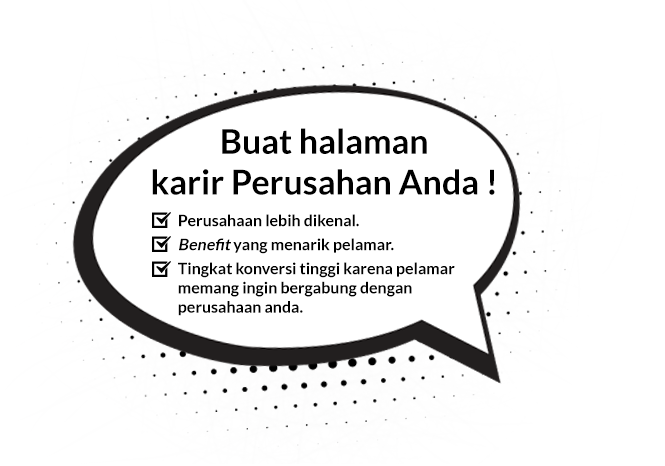
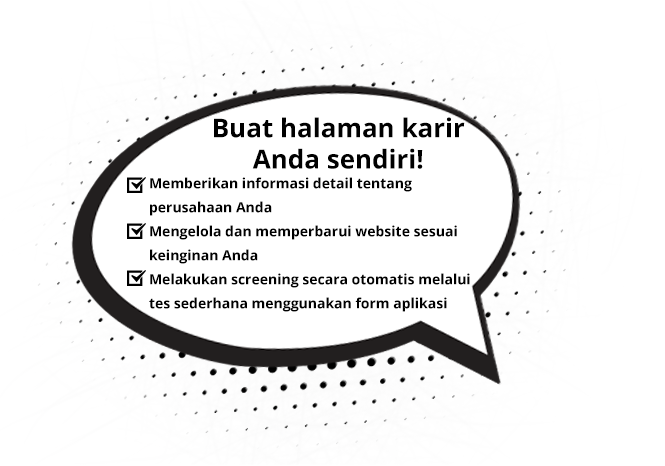
revision: career website service page

diff --git a/layanan/pembuatan-website-karir-perusahaan/css/style.css b/layanan/pembuatan-website-karir-perusahaan/css/style.css
@@ -114,7 +114,8 @@ header.head-banner{
 }
 .banner-subt{
 	font-size: 16px;
-	color: #555555;
+	color: #000;
+	text-shadow: 0px 0px 6px rgba(255,255,255,1);
 }
 .offering-part{
 	background: #000;
@@ -391,7 +392,7 @@ header.head-banner{
 }
 .testimonial-title {
 	background: #eab913;
-	min-height: 450px;
+	min-height: 520px;
 	position: relative;
 }
 .testimonial-title h3{
@@ -488,6 +489,102 @@ header.head-banner{
 .copyright-container {
 	padding:20px 0;
 		background: #eab913;
+}
+
+.slick-dots
+{
+    position: absolute;
+    bottom: 20px;
+
+    display: block;
+
+    width: 100%;
+    padding: 0;
+    margin: 0;
+
+    list-style: none;
+
+    text-align: center;
+}
+.slick-dots li
+{
+    position: relative;
+
+    display: inline-block;
+
+    width: 20px;
+    height: 20px;
+    margin: 0 5px;
+    padding: 0;
+
+    cursor: pointer;
+}
+.slick-dots li button
+{
+    font-size: 0;
+    line-height: 0;
+
+    display: block;
+
+    width: 20px;
+    height: 20px;
+    padding: 5px;
+
+    cursor: pointer;
+
+    color: transparent;
+    border: 0;
+    outline: none;
+    background: transparent;
+}
+.slick-dots li button:hover,
+.slick-dots li button:focus
+{
+    outline: none;
+}
+.slick-dots li button:hover:before,
+.slick-dots li button:focus:before
+{
+    opacity: 1;
+}
+.slick-dots li button:before
+{
+    font-family: 'slick';
+    font-size: 30px;
+    line-height: 20px;
+
+    position: absolute;
+    top: 0;
+    left: 0;
+
+    width: 20px;
+    height: 20px;
+
+    content: '•';
+    text-align: center;
+
+    opacity: .25;
+    color: black;
+
+    -webkit-font-smoothing: antialiased;
+    -moz-osx-font-smoothing: grayscale;
+}
+.slick-dots li.slick-active button:before
+{
+    opacity: .75;
+    color: black;
+}
+
+.btn-yellow {
+	background-color: #ffc914;
+	border: 2px solid #dead08;
+	color: #fff;
+	text-shadow: 1px 1px 1px rgba(0,0,0,0.3);
+	font-size: 16px;
+}
+.btn-yellow:hover,
+.btn-yellow:focus {
+	color: #fff;
 }
 
 /* responive */

diff --git a/layanan/pembuatan-website-karir-perusahaan/index.php b/layanan/pembuatan-website-karir-perusahaan/index.php
@@ -67,13 +67,17 @@ ga('send', 'pageview');
 				<div class="container">
 					<div class="banner-text">
 						<h1>
-							<span>Sulit Menemukan</span><br>
-							<span class="ytext">Karyawan Potensial</span> <br>
-							<span>untuk Perusahaan Anda?</span>
+							<span>Anda seorang HRD namun sulit untuk mendapatkan</span><br>
+							<span class="ytext">karyawan yang berkualitas</span> <br>
+							<span>untuk perusahaan Anda?</span>
+
 						</h1>
 						<div class="banner-subt">
-							Situs lowongan kerja kurang dapat diandalkan?<br>
-Komisi untuk agen penyalur tenaga kerja mahal?
+							Mari Buat Website Perekrutan Karyawan Anda Sendiri<br><br>
+							Sebuah Website perekrutan karyawan yang efektif dan mempunyai biaya yang rendah! <br><br>
+							Kami sadar dan memahami bahwa menggunakan situs lowongan kerja mempunyai biaya yang mahal serta sulit untuk melakukan pemilihan karyawan yang Anda inginkan.
+							<br><br>
+							Karena itu, mari kita sedikit lebih bijak dengan mengeluarkan biaya yang rendah namun mempunyai efektivitas yang cukup tinggi sehingga membuat waktu Anda sebagai HRD menjadi lebih efisien dengan membuat sebuah website perekrutan karyawan yang sesuai dengan keinginan Anda.
 						</div>
 					</div>
 				</div>
@@ -83,7 +87,7 @@ Komisi untuk agen penyalur tenaga kerja mahal?
 					<div class="container">
 						<div class="row">
 							<div class="col-sm-8">
-								<h2 style="padding-top: 15px;">KAMI HADIR UNTUK MEMBANTU ANDA!</h2>
+								<h2 style="padding-top: 15px;">Kami siap memberikan solusi sesuai keinginan Anda!</h2>
 							</div>
 							<div class="col-sm-4 text-right">
 								 <a href="https://www.logique.co.id/hubungi-kami.php" target="_blank"" target="_blank"><img class="logo-logique img-responsive" src="images/logo-y-logique.png" alt="" style="float: right; margin-top:10px;"></a>
@@ -96,20 +100,20 @@ Komisi untuk agen penyalur tenaga kerja mahal?
 					<div class="container">
 						<div class="problem-content row">
 							<div class="col-md-v col-sm-8">
-								<h3 style="text-align: left;">Mungkin Anda sebagai HRD sering menghadapi masalah ini <br>dalam proses perekrutan karyawan?</h3>
+								<h3 style="text-align: left;">Masalah-masalah yang seringkali dialami oleh HRD dalam melakukan proses perekrutan karyawan, yaitu:</h3>
 								 <div class="row">
 								 	
 								 	<div class="col-sm-4">
 								 		<img src="images/img-problem2.png" class="img-responsive" >
-								 		<div>Terus menggunakan layanan situs pencari kerja namun jumlah pelamar sedikit, bahkan cenderung menurun. </div>
+								 		<div>Menggunakan layanan situs pencari kerja namun hasilnya tidak menentu, terkadang jumlah pencari kerja banyak, tapi kualitasnya tidak bagus atau sebaliknya.</div>
 								 	</div>
 								 	<div class="col-sm-4">
 								 		<img src="images/img-problem3.png" class="img-responsive">
-								 		<div >Pakai jasa agen penyalur tenaga kerja namun kualitas tidak sebanding dengan harga.</div>
+								 		<div>Menggunakan jasa agen penyalur tenaga kerja, tapi harganya sangat mahal dan terkadang kualitas karyawan tidak bagus.</div>
 								 	</div>
 								 	<div class="col-sm-4">
 								 		<center><img src="images/img-problem1.png" class="img-responsive"  ></center>
-								 		<div>Cari kandidat di jaringan sosial namun mereka sudah menolak Anda dari awal.</div>
+								 		<div>Tidak mempunyai media untuk memberikan informasi kepada para pelamar kerja tentang informasi rekrutmen sehingga antara efektivitas waktu dan biaya tidak seimbang.</div>
 								 	</div>
 								 </div>
 							 
@@ -122,19 +126,21 @@ Komisi untuk agen penyalur tenaga kerja mahal?
 					<div class="arrow-up"></div>
 					<div class="container">
 						
-					<h3><span class="custom-text">Banyak perusahaan yang menghadapi kendala-kendala ini</span>
-					Logique memberikan solusi pembuatan website karir perusahaan yang mampu:
+					<h3><span class="custom-text">Banyak Perusahaan dan HRD yang Menderita dengan Kendala-kendala seperti ini,</span>
+					Karena itu, Logique memberikan solusi pembuatan website karir perusahaan dengan berbagai keuntungan, seperti:
 					 </h3>
 					 <div class="row">
 							<div class="col-sm-12">
 					<div class="text-left solution-text">
 					<div class="row">
-						<div class="col-sm-4"> <div>Mengenalkan kembali visi dan misi perusahaan Anda, serta tantangan menarik bekerja di perusahaan Anda.</div></div>
-						<div class="col-sm-4"> <div> Menginformasikan banyak <i>benefit</i> yang disediakan perusahaan Anda bagi para pekerja.</div></div>
-						<div class="col-sm-4"> <div>Memposting lowongan yang tersedia sehingga kandidat yang tertarik bekerja di perusahaan Anda bisa melihat lowongan yang cocok.</div></div>
+						<div class="col-sm-4"> <div>Website karir yang mampu memberikan informasi mengenai budaya, atmosfer serta manfaat bekerja di perusahaan Anda dengan menggunakan media foto dan video yang tidak dimiliki oleh situs layanan pencari kerja.</div></div>
+						<div class="col-sm-4"> <div>Website karir yang dikelola sendiri oleh Anda sehingga Anda dapat memperbarui jenis pekerjaan serta syarat-syarat pelamar yang Anda inginkan dengan bebas sesuai keinginan Anda.</div></div>
+						<div class="col-sm-4"> <div>Anda dapat melakukan screening secara ketat dan otomatis kepada para pelamar yang Anda cari dengan memberikan tes sederhana melalui form aplikasi yang disediakan untuk mencegah perusahaan mendapatkan pekerja dengan kualitas rendah.</div></div>
 					<div class="col-sm-12">
 						 
-						<center>Ketiga hal tersebut membuat lebih banyak kandidat potensial yang mengetahui tentang perusahaan dan lowongan Anda.<br> Terlebih lagi <i>benefit</i> menarik pada website karir dapat membuat kandidat tertarik untuk bergabung.
+						<center>Kami dapat membuat halaman WEB yang efektif sehingga meningkatkan efektivitas Anda dalam melakukan proses kegiatan rekrutmen lainnya. Selain itu, pada Website karir page tersebut, Anda juga dapat melakukan iklan lowongan kerja secara digital agar mendapatkan lebih banyak kandidat atau mengarahkan halaman situs pencari kerja ke halaman ini sehingga Anda dapat menjelaskan berbagai hal yang tidak dapat dijelaskan di dalam situs pencari kerja tersebut.
+						<br><br>
+						Anda juga dapat menuliskan persyaratan secara detail di halaman website perekrutan dengan menjelaskan secara tegas bahwa “Saya tidak ingin pekerja dengan kriteria seperti di bawah ini” agar mendapatkan pelamar yang sesuai dengan kriteria yang Anda dan perusahaan inginkan.
 			 			 </center>
 					</div>
 					</div>
@@ -173,13 +179,23 @@ Komisi untuk agen penyalur tenaga kerja mahal?
 						</div>
 					</div>
 					<div class="col-sm-12 simul-description">
-					 <center>Bila pada akhirnya kandidat yang masuk tidak sesuai dengan kriteria atau budaya perusahaan Anda, maka biaya dan tenaga yang Anda habiskan akan menjadi sia-sia. Bahkan, ada potensi menimbulkan masalah lain seperti pengajuan pengunduran diri dalam waktu dekat yang membuat Anda harus mengulang proses rekrutmen dari awal.</center>
+					 <center>
+					 	Biaya tersebut sangat mahal, seharusnya Anda bisa mengalokasikan dana tersebut untuk membayar lebih banyak karyawan.
+					 	<br><br>
+						Jika pelamar ternyata tidak sesuai dengan kriteria perusahaan, maka biaya serta tenaga yang Anda keluarkan akan menjadi sia-sia. Bahkan bisa saja menimbulkan potensi masalah lain di kemudian hari, seperti pengunduran diri karyawan dalam waktu dekat karena tidak mampu beradaptasi dengan lingkungan kerja sehingga membuat Anda harus mengulang proses rekrutmen karyawan dari awal. Hal ini tentu membuang-buang waktu Anda.
+					 </center>
 					</div>
 					</div>
 				</div>
 				<div class="text-center simul-text">
 					<div class="arrow-up"></div>
-					<h3 class="ytext"><span>Hindari hal-hal tersebut dengan mengombinasikan </span>langkah rekrutmen Anda dengan pembuatan halaman karir dari Logique</h3>
+					<div class="row">
+						<div class="col-md-8 col-md-offset-2">
+							<h3 class="ytext"><span>Hindari semua hal tersebut dengan membuat sebuah situs web rekrutmen karyawan.
+ </span>Logique menyediakan layanan pembuatan situs web rekrutmen karyawan untuk mengatasi kesulitan para HRD perusahaan dalam mencari pekerja berkualitas di Indonesia.
+</h3>
+						</div>
+					</div>
 				</div>
 			</section>
 			<section >
@@ -225,8 +241,8 @@ Komisi untuk agen penyalur tenaga kerja mahal?
 				</div>
 				<div class="text-center forwho-text">
 					<div class="forwho-cont">
-					<div class="container"><h3>LOGIQUE menawarkan solusi bagi segala permasalahan rekrutmen Anda <br>
-dengan membuat halaman karir perusahaan Anda semenarik mungkin</h3></div>
+					<div class="container"><h3>Bagi perusahaan yang merasa kesulitan dalam melakukan kegiatan rekrutmen, maka Logique menawarkan solusinya dengan memberikan layanan pembuatan halaman karir perusahaan yang efektif dan bermanfaat bagi perusahaan.
+</h3></div>
 					</div>
 				</div>
 			</section>
@@ -237,19 +253,19 @@ dengan membuat halaman karir perusahaan Anda semenarik mungkin</h3></div>
 						<div class="col-sm-4">
 							<center>
 								<img src="images/icon-design.png" alt=""  class="img-responsive">
-								<div>Desain yang bagus memberikan impresi yang baik bagi para pelamar dibandingkan dengan halaman milik kompetitor Anda</div>
+								<div>Kami memproduksi desain yang bagus sehingga informasi mengenai perusahaan dapat diketahui dengan baik. Selain itu, Anda juga dapat memberikan gambar dan video sesuai kebutuhan serta menjadikan desain website yang responsif untuk digunakan di seluler.</div>
 							</center>
 						</div>
 						<div class="col-sm-4">
 							<center>
 								<img src="images/icon-seo.png" alt=""  class="img-responsive">
-								<div>Website yang menarik dan ditunjang dengan implementasi standar SEO yang baik, akan menjadikan web efektif dan menggugah kandidat melamar ke perusahaan Anda</div>
+								<div>Kami menggunakan SEO untuk optimisasi konten. Namun sebelumnya kami akan melakukan wawancara terlebih dahulu dengan Divisi HRD dalam pembuatan konten website. Setelah itu, kami akan membuat konten yang relevan sehingga para kandidat mudah untuk memahaminya.</div>
 							</center>
 						</div>
 						<div class="col-sm-4">
 							<center>
 								<img src="images/icon-complete.png" alt=""  class="img-responsive">
-								<div>Informasi lengkap di halaman karir perusahaan Anda membuat Anda yakin akan kriteria yang Anda cari dari seorang pelamar (mencegah adanya ketidakcocokan)</div>
+								<div>Kami akan menerapkan formulir aplikasi yang jika diperlukan dapat dihubungkan dengan sistem kepegawaian perusahaan sehingga antara sistem dengan portal perekrutan dapat terbangun suatu sistem koordinasi yang baik bagi perusahaan.</div>
 							</center>
 						</div>
 					</div>
@@ -371,22 +387,93 @@ dengan membuat halaman karir perusahaan Anda semenarik mungkin</h3></div>
 							<h3 class="custom-text">Testimoni</h3>
 						</div>
 						<div class="col-sm-9">
-							<div class="testi-container">
-								<div class="testi-box">
-									<div class="quoteicon quote-icon1">"</div>
-									<div class="testi-text">
-										Setelah menggunakan konsultasi dan hasil halaman karir yang diberikan oleh Logique, kuantitas dan kualitas pelamar kerja perusahaan kami meningkat. Hal ini membuat kami bisa mengefisiensikan kinerja staff HR dalam hal rekrutmen.  
+							<div class="testimoni-slick">
+								<div class="testi-container">
+									<div class="testi-box">
+										<div class="quoteicon quote-icon1">"</div>
+										<div class="testi-text">
+											Setelah menggunakan konsultasi dan hasil halaman karir yang diberikan oleh Logique, kuantitas dan kualitas pelamar kerja perusahaan kami meningkat. Hal ini membuat kami bisa mengefisiensikan kinerja staff HR dalam hal rekrutmen.  
+										</div>
+										<div class="quoteicon quote-icon2 pull-right">"</div>
+										<div class="arrow-diagonal"></div>
 									</div>
-									<div class="quoteicon quote-icon2 pull-right">"</div>
-									<div class="arrow-diagonal"></div>
+									<div class="testi-owner-container pull-right">
+										Mr. Tatsuya Miyoshi<br>
+										<span style="font-style: italic;">TrendPot </span><a style="color:#000" href="http://trendpot-recruit.asia/" target="_blank"><u>(http://trendpot-recruit.asia/)</u></a>
+									</div>
 								</div>
-								<div class="testi-owner-container pull-right">
-									Mr. Tatsuya Miyoshi<br>
-									<span style="font-style: italic;">TrendPot </span><a style="color:#000" href="http://trendpot-recruit.asia/" target="_blank"><u>(http://trendpot-recruit.asia/)</u></a>
+								<div class="testi-container">
+									<div class="testi-box">
+										<div class="quoteicon quote-icon1">"</div>
+										<div class="testi-text">
+											Solusi HR yang diberikan oleh LOGIQUE berhasil membuat perusahaan kami  berjalan lebih efektif, kami sangat puas dapat bekerjasama dengan LOGIQUE. 
+										</div>
+										<div class="quoteicon quote-icon2 pull-right">"</div>
+										<div class="arrow-diagonal"></div>
+									</div>
+									<div class="testi-owner-container pull-right">
+										Satya Handana <br>
+										<span style="font-style: italic;">Pemilik Bisnis Konveksi Bandung </span>
+									</div>
+								</div>
+								<div class="testi-container">
+									<div class="testi-box">
+										<div class="quoteicon quote-icon1">"</div>
+										<div class="testi-text">
+											Dulu kami sangat bergantung dengan agen dalam merekrut karyawan baru, hal ini membuat biaya operasional yang kami keluarkan sangat besar. Setelah menggunakan solusi yang diberikan oleh LOGIQUE kami berhasil mengefektifkan pengeluaran kami dan mendapatkan karyawan sesuai kriteria yang diinginkan perusahaan.
+	 
+										</div>
+										<div class="quoteicon quote-icon2 pull-right">"</div>
+										<div class="arrow-diagonal"></div>
+									</div>
+									<div class="testi-owner-container pull-right">
+										Jessy Veronika <br>
+										<span style="font-style: italic;">Manajer HR Perusahaan Manufaktur </span>
+									</div>
+								</div>
+								<div class="testi-container">
+									<div class="testi-box">
+										<div class="quoteicon quote-icon1">"</div>
+										<div class="testi-text">
+											Kami sempat kesulitan untuk mendapatkan karyawan yang berkualitas dan sesuai dengan kriteria yang kami inginkan. Padahal, kami telah menggunakan situs pencari kerja serta mengeluarkan biaya yang cukup mahal, namun tetap kesulitan dalam mendapatkan yang kami mau. Namun, setelah kami mencoba penawaran yang diberikan oleh Logique, kami berhasil mendapatkan karyawan yang kami inginkan tanpa perlu mengeluarkan biaya yang cukup mahal dan efektif. 
+	 
+										</div>
+										<div class="quoteicon quote-icon2 pull-right">"</div>
+										<div class="arrow-diagonal"></div>
+									</div>
+									<div class="testi-owner-container pull-right">
+										Anwar Lubis <br>
+										<span style="font-style: italic;">Supervisor HR Perusahaan Jasa Transportasi.</span>
+									</div>
 								</div>
 							</div>
 						</div>
 					</div>
+					</div>
+				</div>
+			</section>
+			<section class="forwho-container">
+				<div class="text-center simul-text">
+					<div class="row">
+						<div class="col-md-8 col-md-offset-2">
+							<h3 class="ytext" style="margin-top: 0"><span>Perlu Solusi Lain Untuk Mempermudah Pekerjaan HR Anda?
+							 </span>Setelah Anda mendapatkan kandidat berkualitas yang lebih banyak mungkin Anda perlu bantuan lain dari sisi HR, LOGIQUE menyediakan layanan tambahan yang dapat memberikan solusi bagi kebutuhan Anda:
+							</h3>
+						</div>
+					</div>
+				</div>
+			</section>
+			<section class="reason-container">
+				<div class="container">
+					<div class="row">
+						<div class="col-sm-8 col-sm-offset-2">
+							<center>
+								<img src="images/dokodemo-logo.png" alt=""  class="img-responsive">
+								<div>Masalah dan waktu yang kurang efektif ketika karyawan Anda tinggal jauh dari kantor mungkin membuat Anda berpikir untuk menerapkan sistem kerja remote. Namun tentu saja sistem kerja seperti ini dikhawatirkan akan membuat karyawan tidak efisien dalam bekerja. Dengan Dokodemo Kerja, Anda tidak perlu khawatir karena sistem ini akan membantu menciptakan kondisi kerja yang profesional antara perusahaan dan karyawan. Karyawan dapat mencatat waktu mulai, istirahat, dan berhenti kerja untuk perhitungan pembayaran, disisi lain perusahaan juga dapat menerima informasi tambahan berupa screenshot yang diambil pada waktu acak untuk memonitor tingkat efisiensi karyawan.</div>
+								<br>
+								<a href="https://www.logique.co.id/produk/dokodemo-kerja.php" class="btn btn-lg btn-yellow">Lihat Informasi Lebih Lanjut</a>
+							</center>
+						</div>
 					</div>
 				</div>
 			</section>
@@ -453,6 +540,12 @@ dengan membuat halaman karir perusahaan Anda semenarik mungkin</h3></div>
 		<script src="/js/bootstrap.min.js"></script>
 		<script src="/js/slick.min.js"></script>
 		<script src='https://www.google.com/recaptcha/api.js'></script>
-		
+		<script>
+			$('.testimoni-slick').slick({
+				dots: true,
+				prevArrow: false,
+				nextArrow: false
+			});
+		</script>
 	</body>
 </html>
